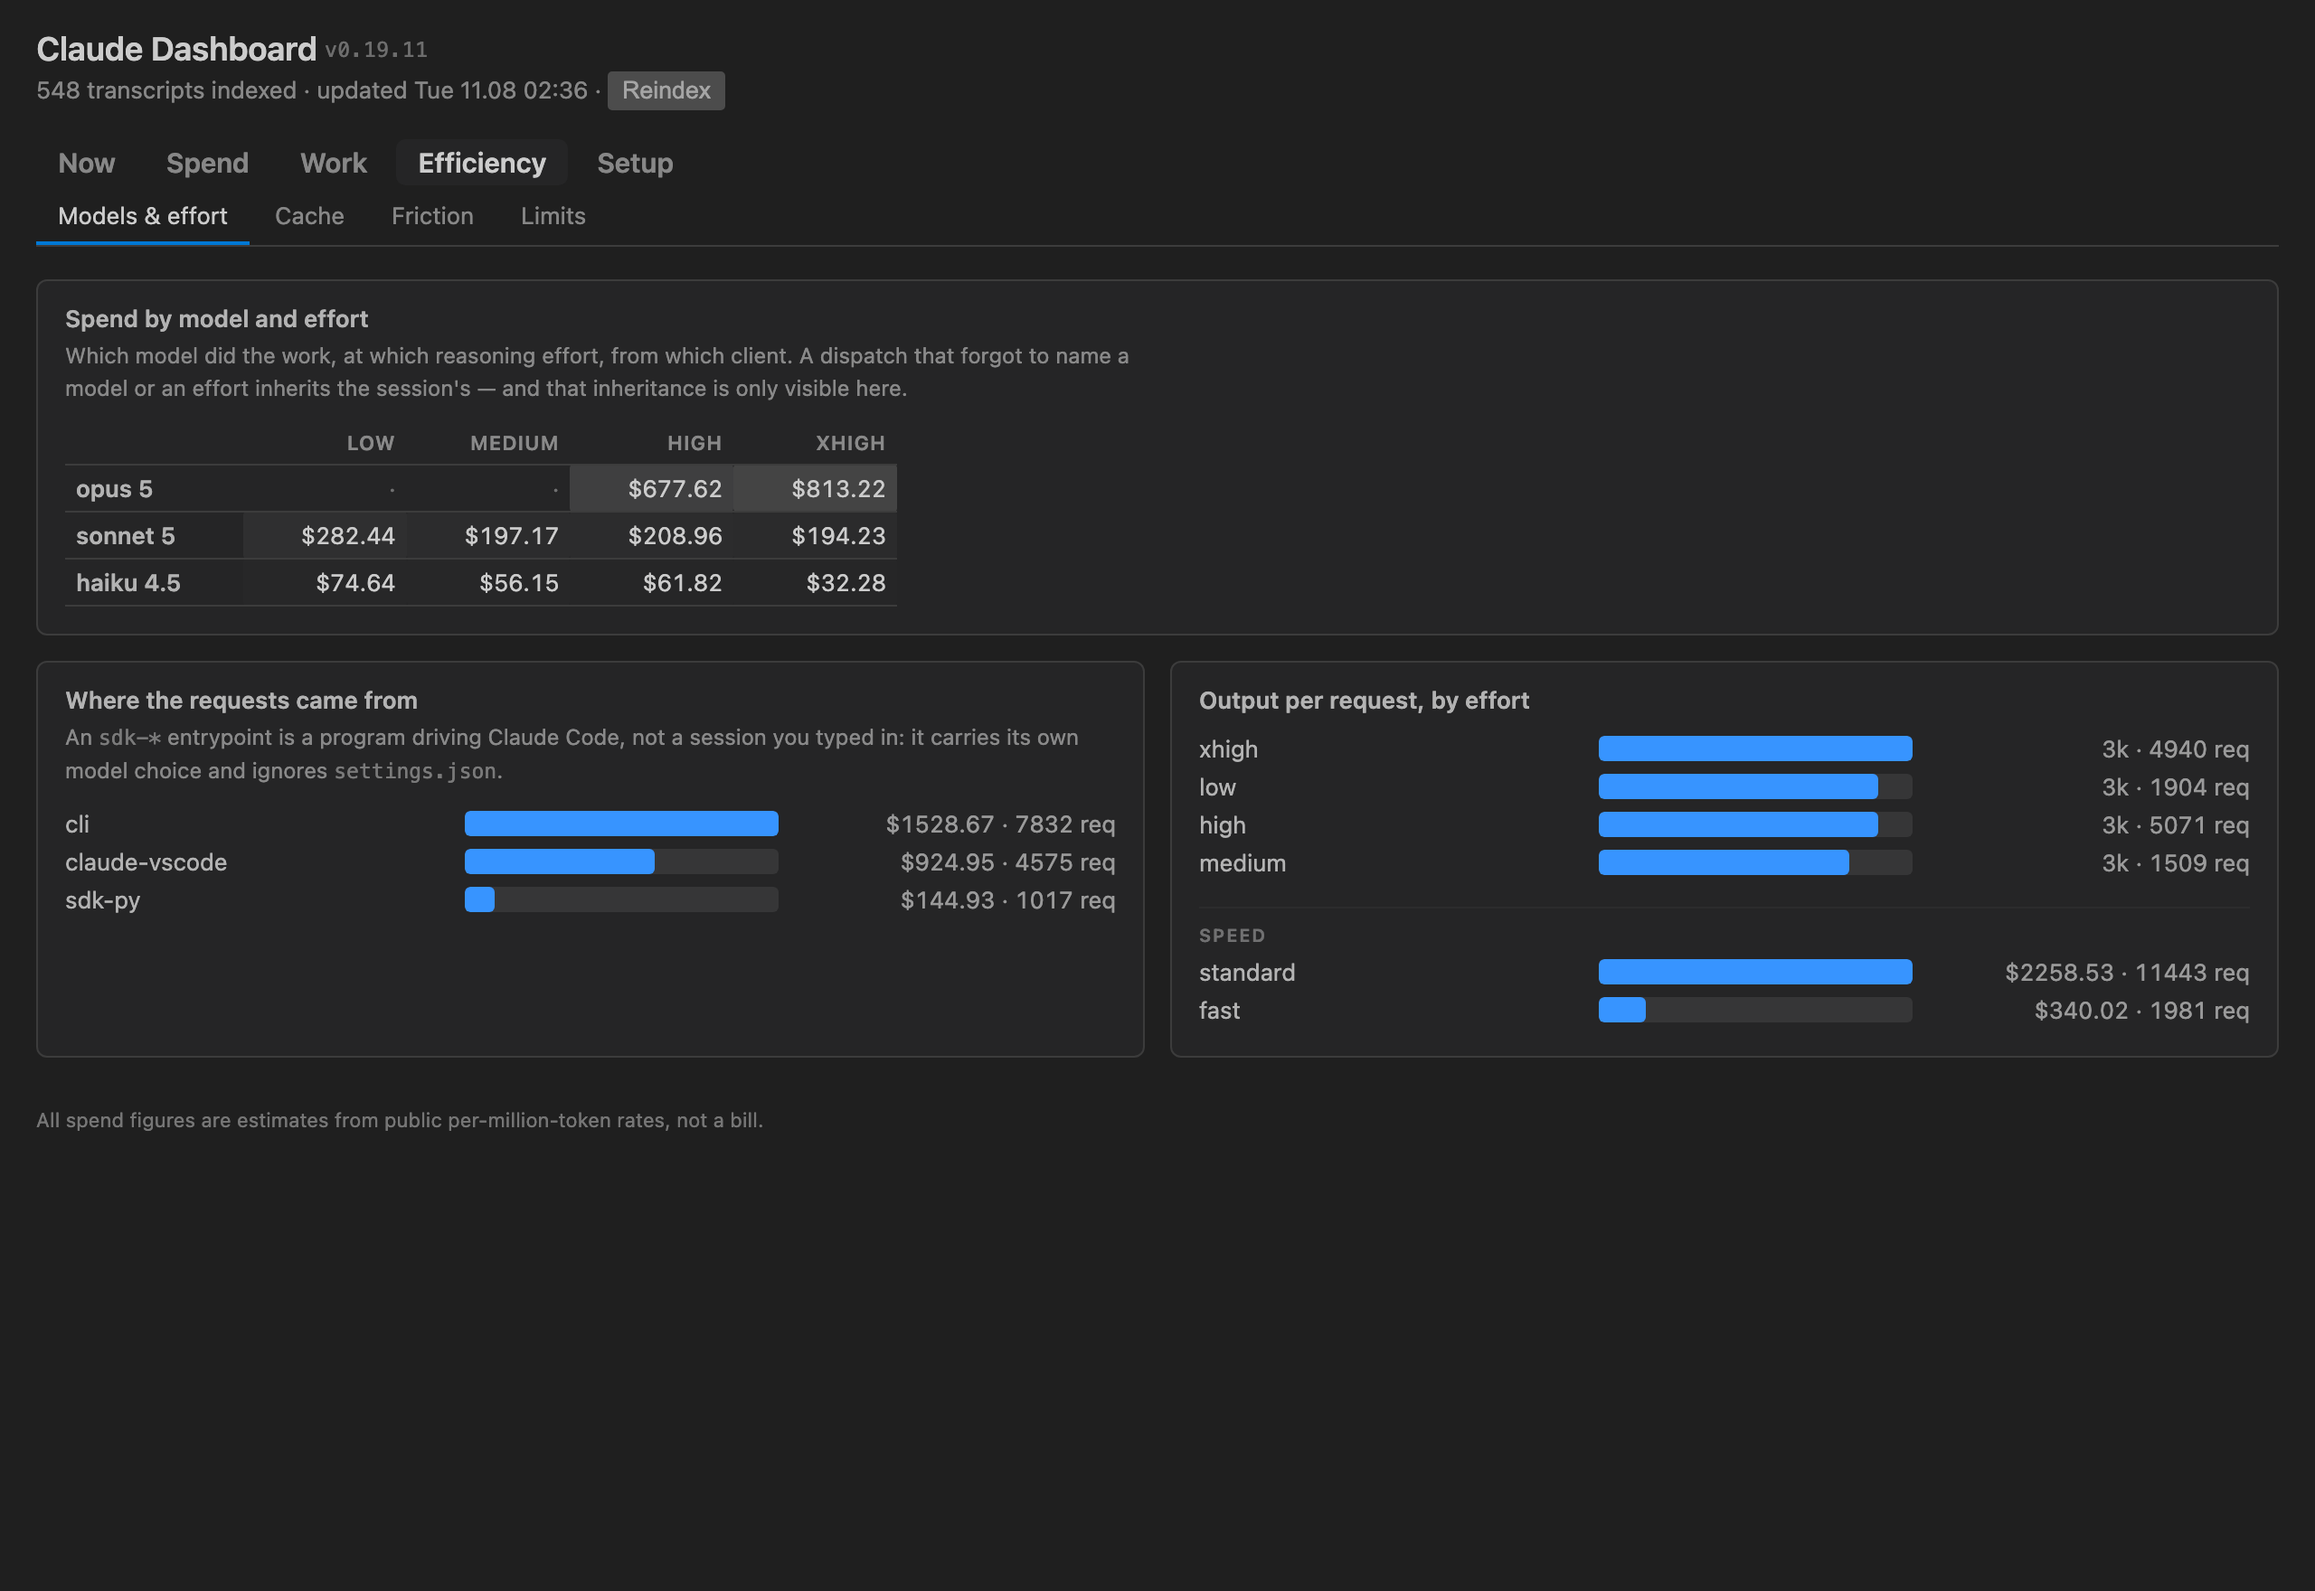
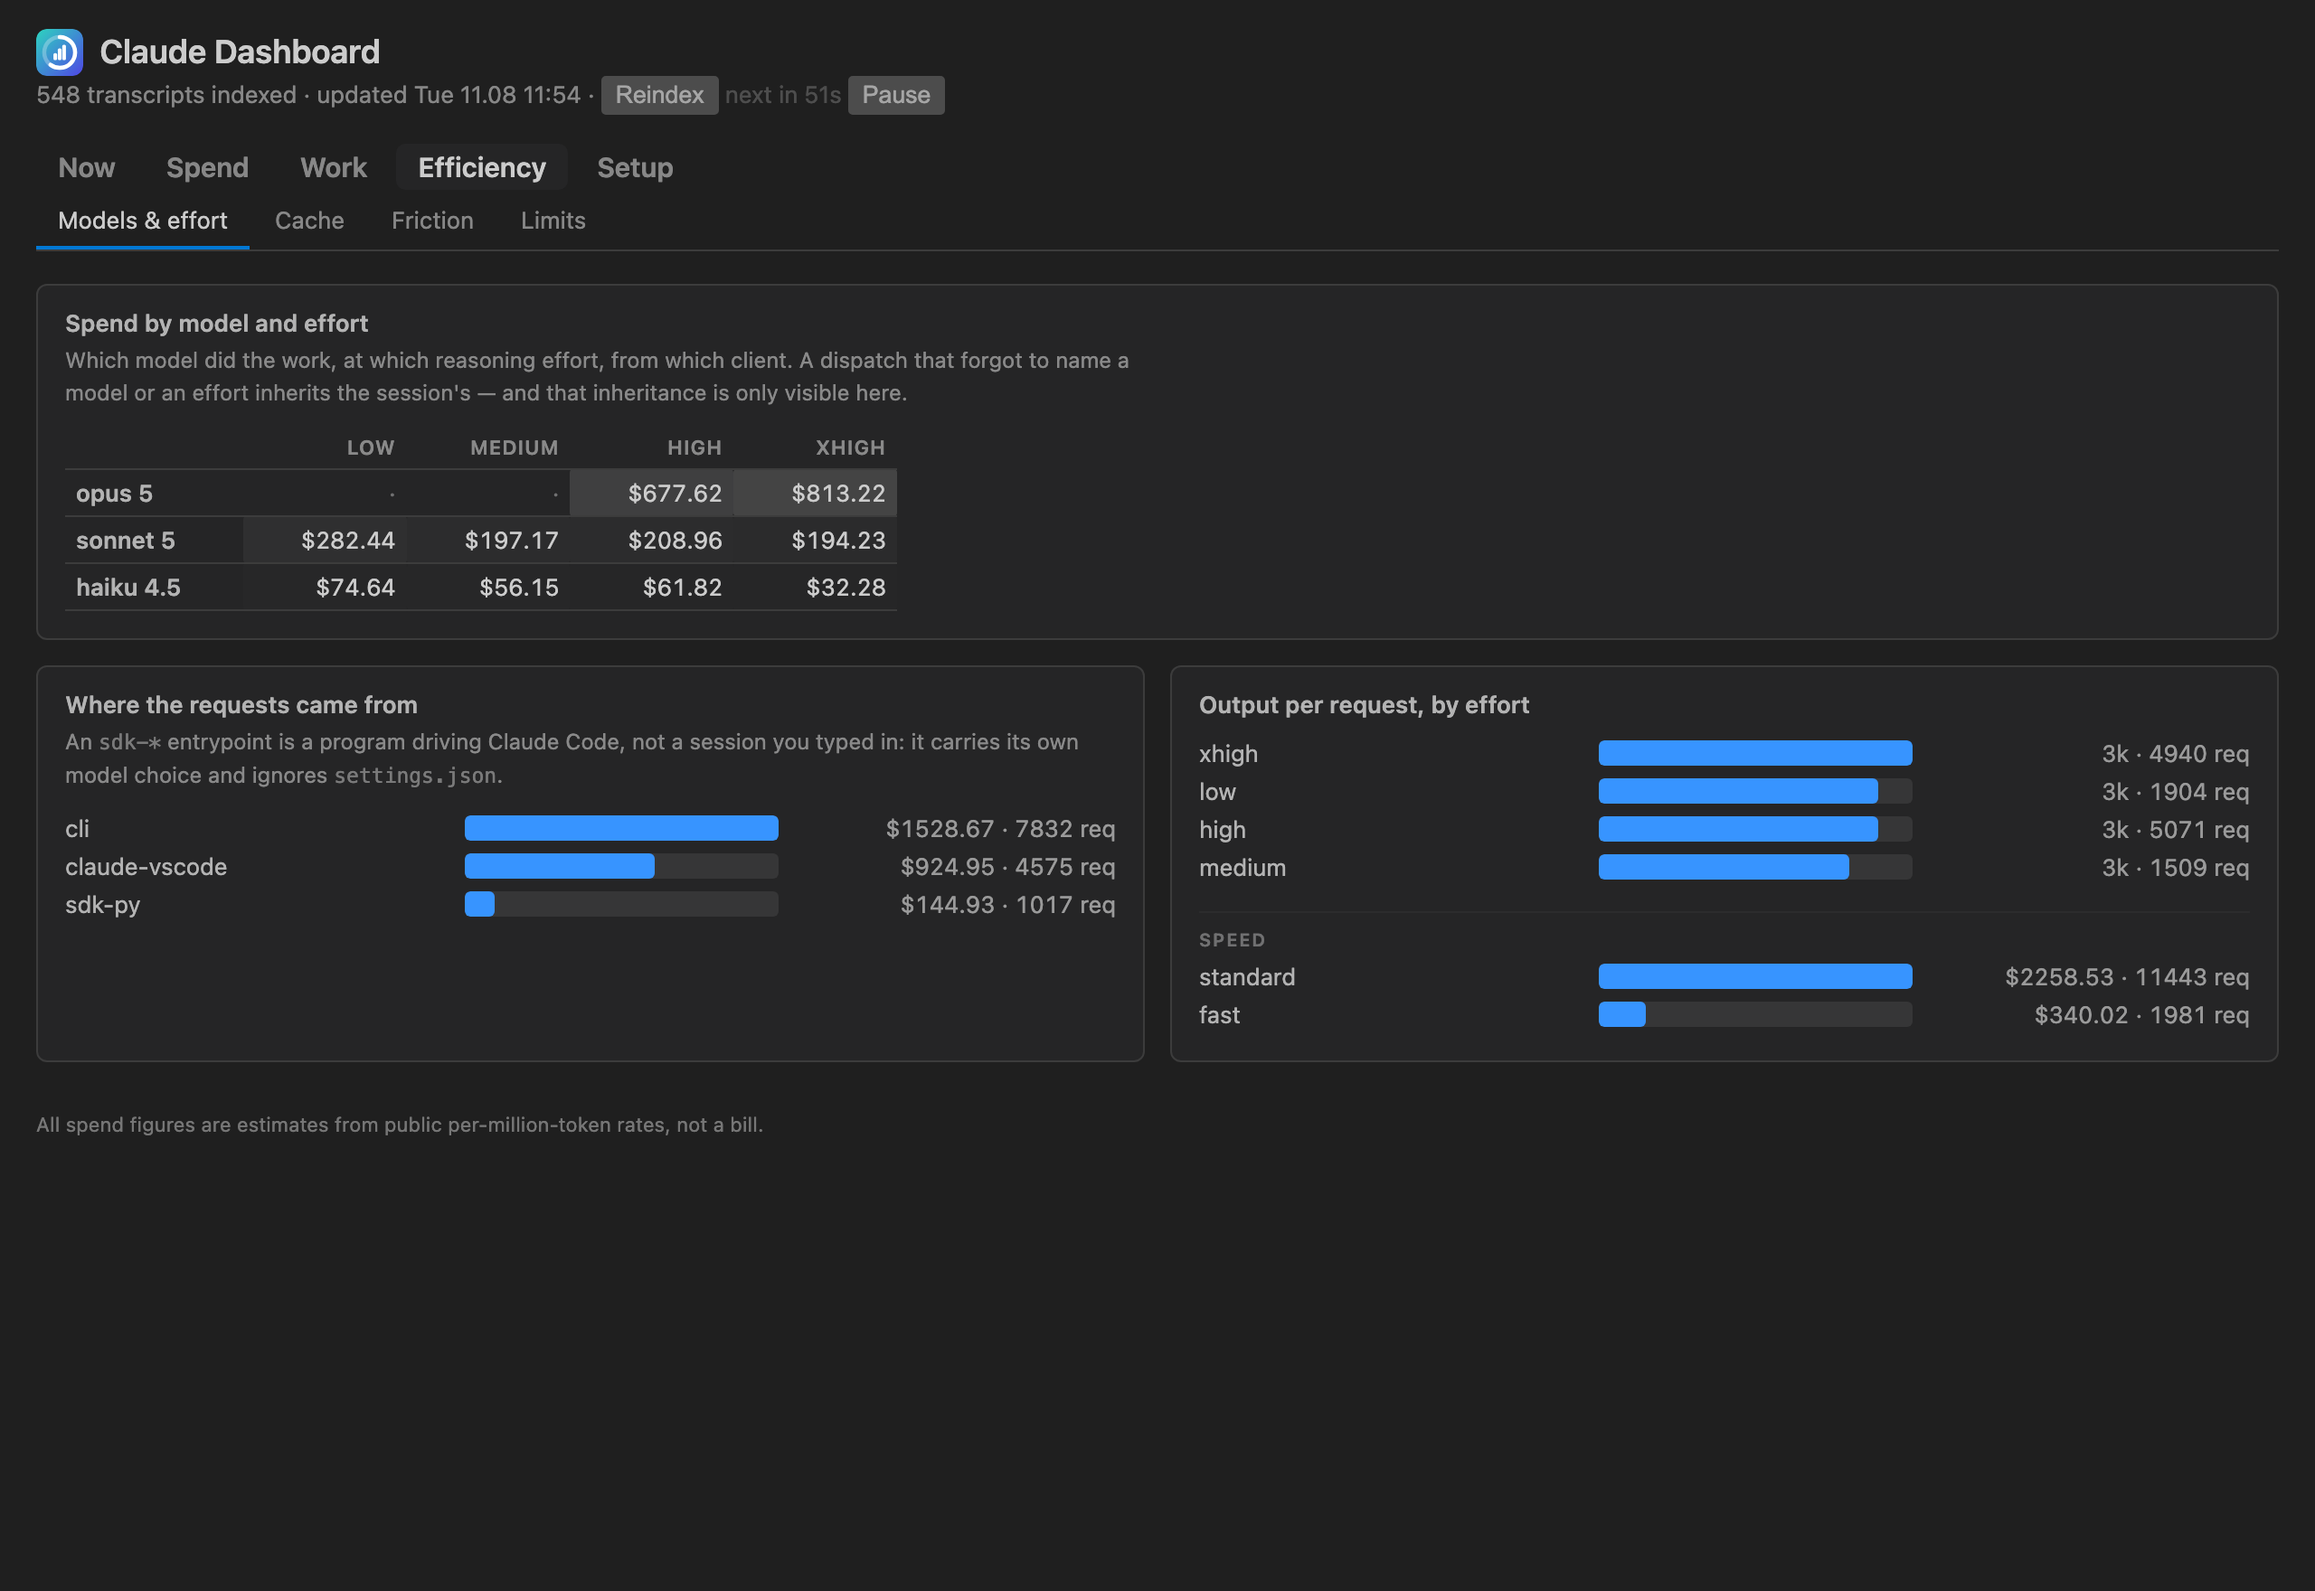
feat(release): 0.20.0, stable — because a pre-release-only listing cannot be installed
The plan was to publish 0.19.x into the pre-release channel. That would have
broken the one button the page has: an extension with no stable version at all
answers the Install click with "no release exists", and the only way in is the
dropdown beside it. The marketplace splits channels by the parity of the minor —
even is stable, odd is pre-release, there are no semver suffixes — so the first
public version has to be even. It is 0.20.0.

From here the channels have a policy, written into the roadmap and into project
memory: work goes out as pre-release (0.21.x) and is published as it lands,
stable is cut when Grigory says it has settled, and a patch to stable rides both
channels — otherwise the next odd version is older than the stable one and hands
a fixed bug back to the user.

The screenshots are re-shot on the settled tree: the header now carries the mark
and the pause, and no version — a listing image should go stale when what it
shows changes, not on every bump. Checked after shooting: no personal string in
any of the 23 rendered pages, no text chunk in any PNG.

Release: 0.20.0

Claude-Session: https://claude.ai/code/session_01XjAraSXvKcVMWcGNwY1U5h

diff --git a/CHANGELOG.md b/CHANGELOG.md
@@ -5,9 +5,24 @@ Notable changes, newest first. The format follows
 [semver](https://semver.org/), with the VS Code convention that an **odd** minor
 is a pre-release and an **even** one is a stable release.
 
-Everything below 0.19.19 was built and installed on one machine — the extension
+Everything below 0.20.0 was built and installed on one machine — the extension
 had not been published yet. The history is kept anyway: it is what the dashboard
 grew out of, and a version that shipped nothing is worth saying so.
+
+## [0.20.0] — 2026-08-11
+
+**First public release.** Even minor, so this is the stable channel: the Install
+button on the page works for everyone, without picking a pre-release from a
+dropdown.
+
+What it is, in one line each — a status bar you write yourself out of 45
+placeholders, and a 23-tab dashboard over every Claude Code transcript on the
+machine: limits with a pace forecast, spend by day, model, project and branch,
+subagents and workflow runs with what each agent cost, cache and friction, and a
+Setup section that reads the installation itself. Everything is read locally;
+one request leaves the machine and it has a switch.
+
+The full feature history is below, from 0.5.0 onwards.
 
 ## [0.19.24] — 2026-08-11
 
